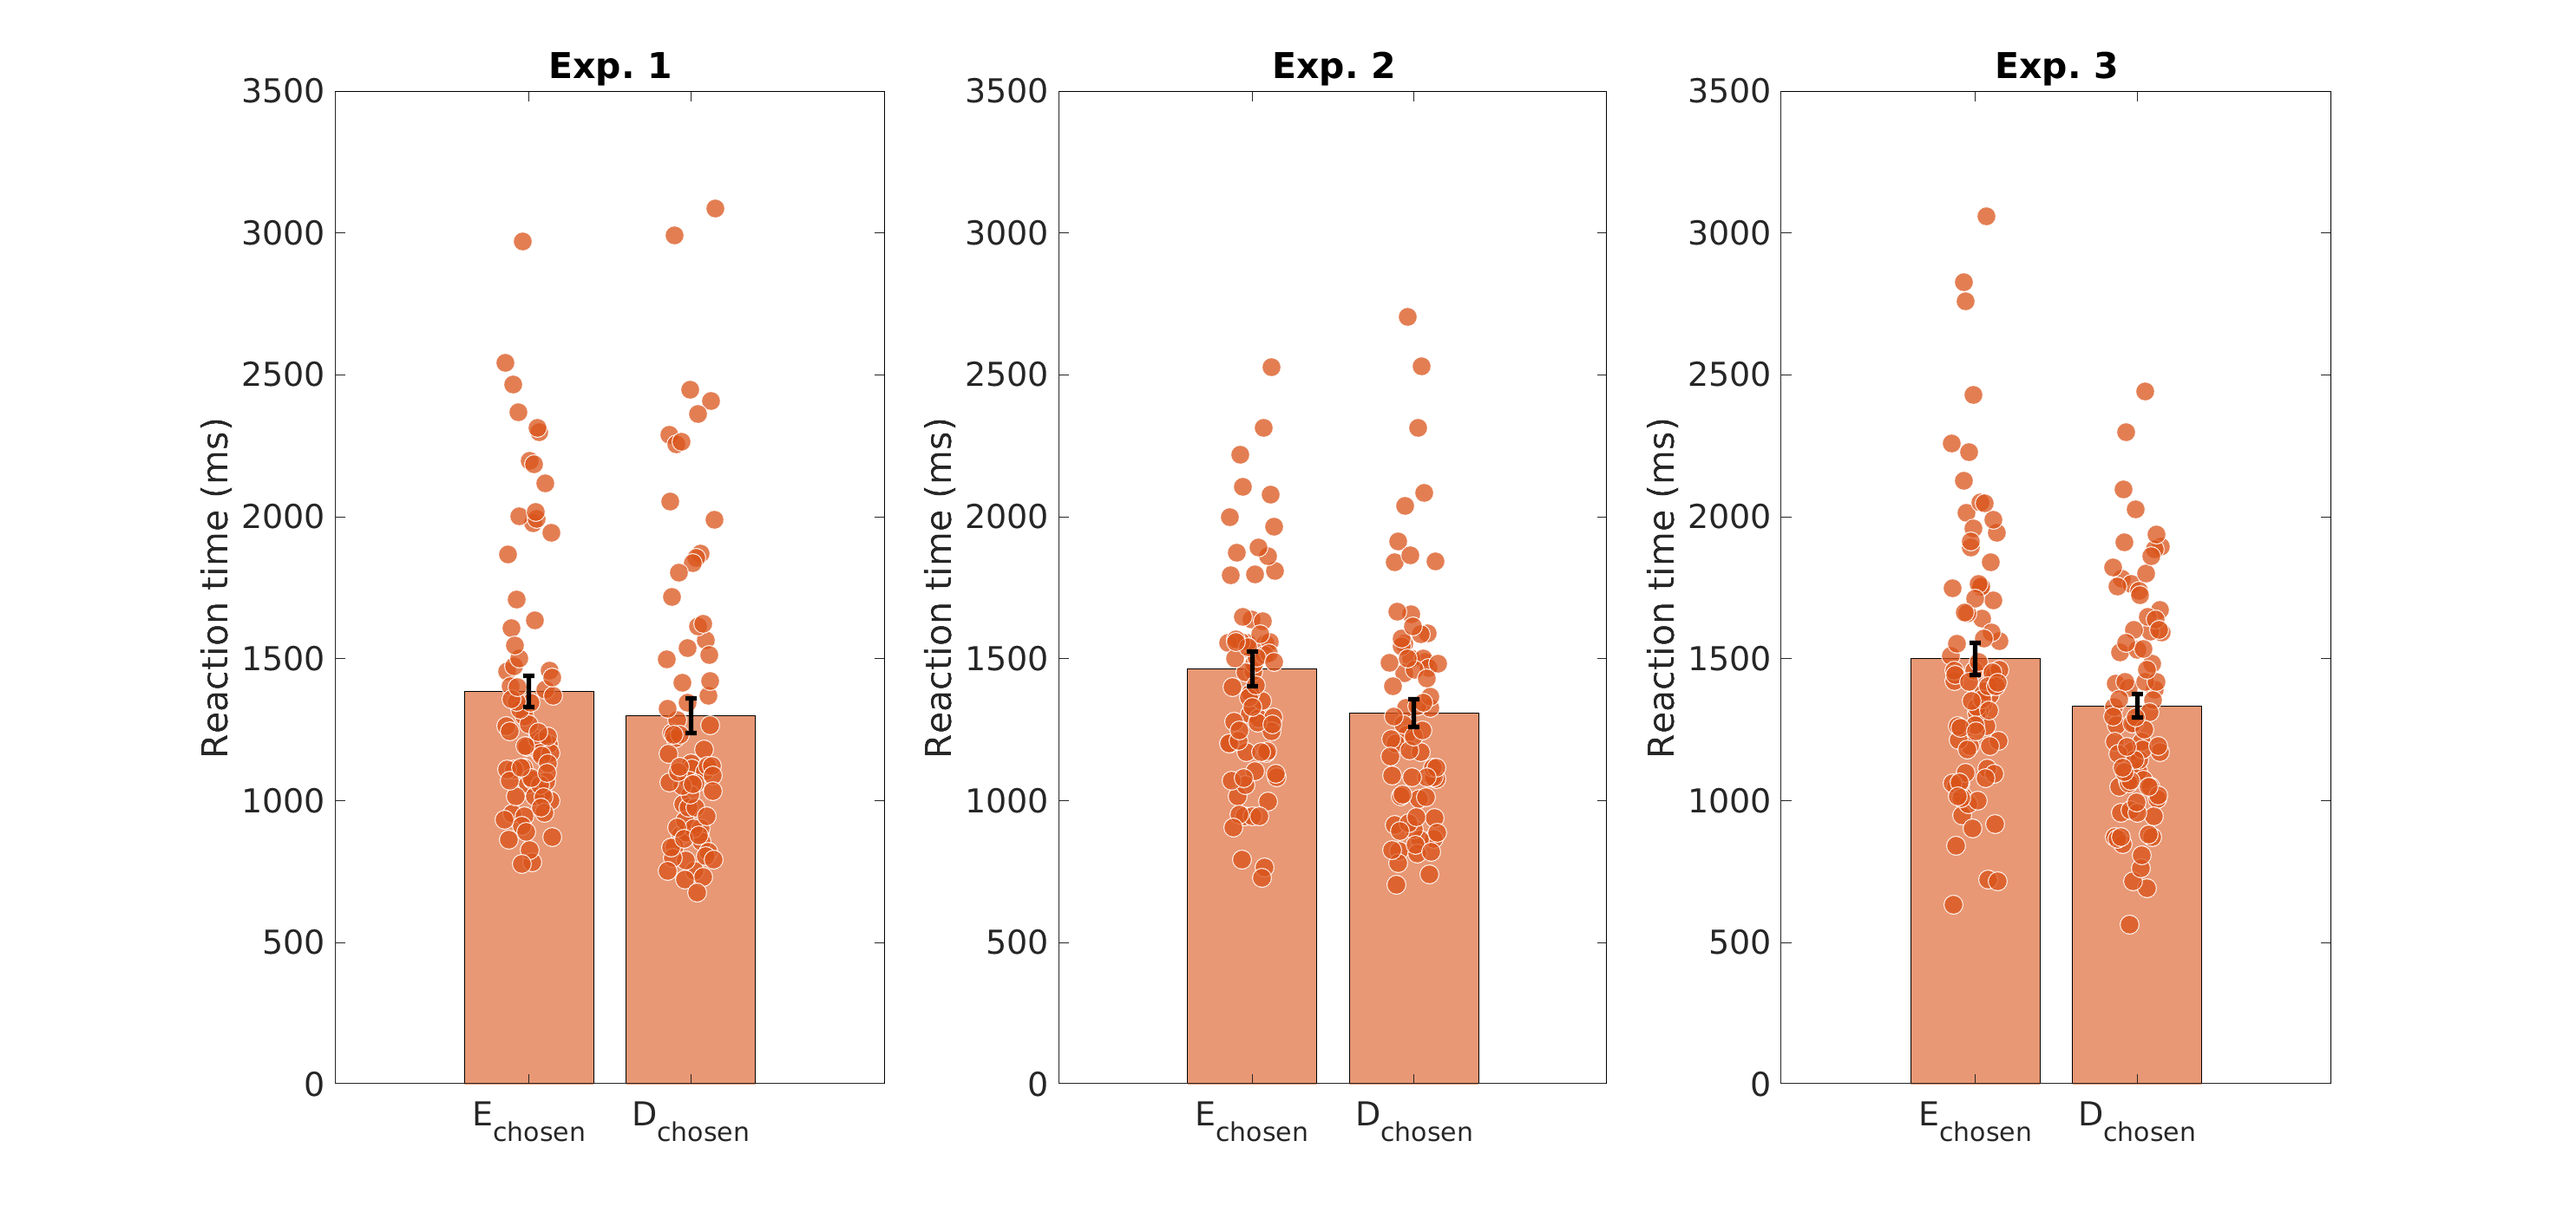
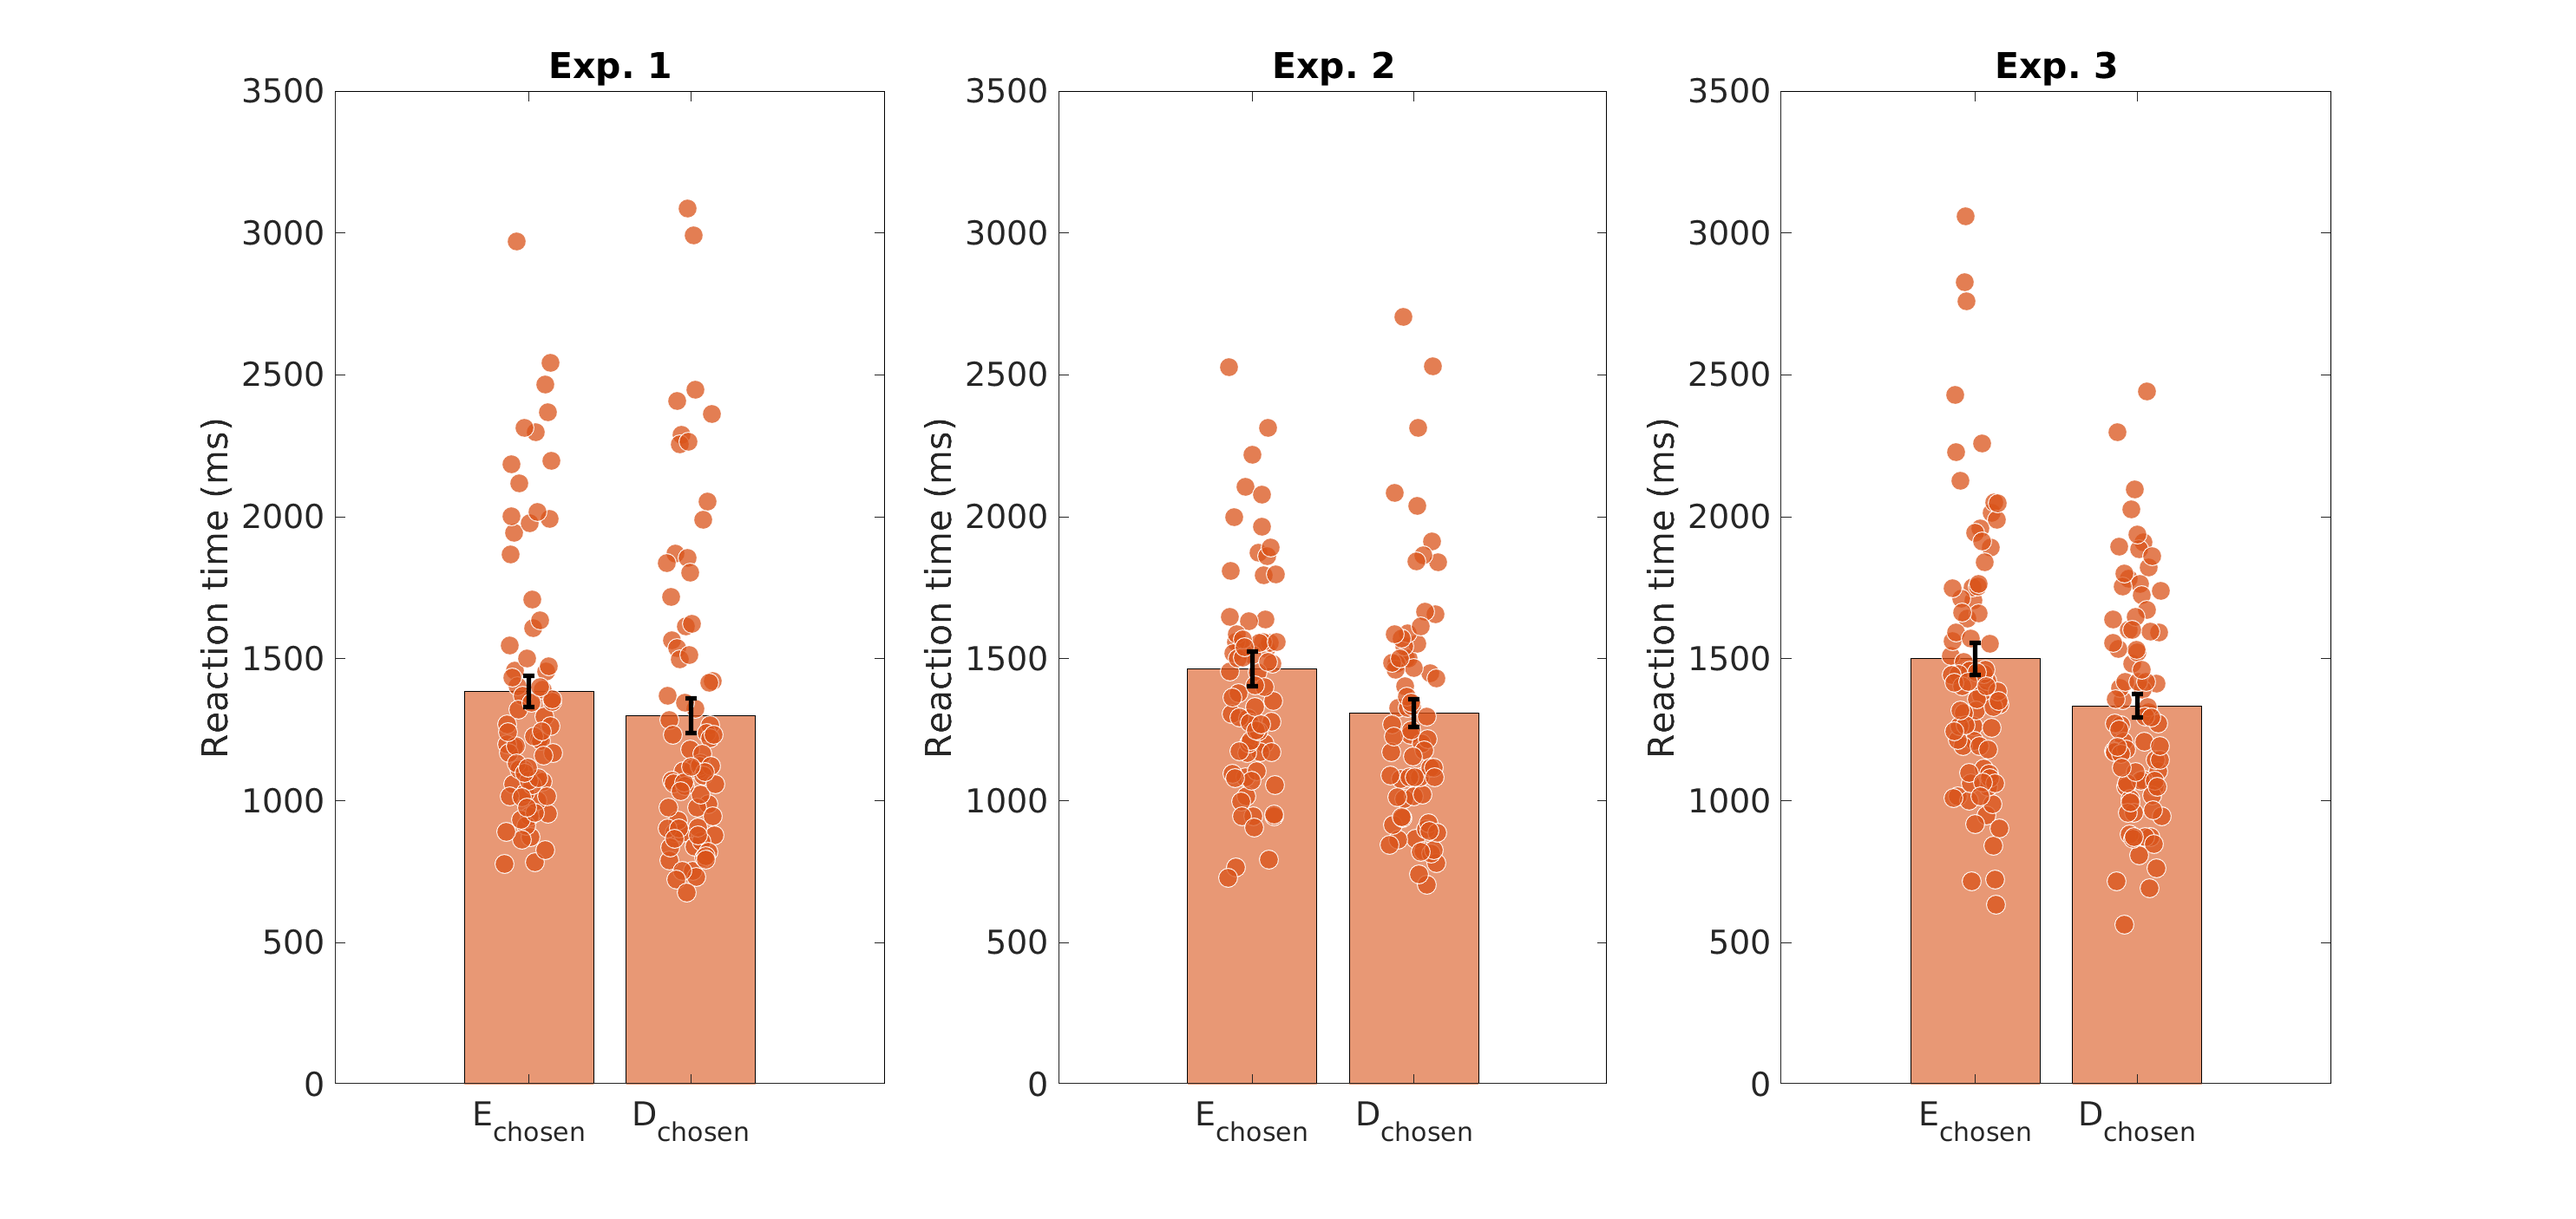
update

diff --git a/fitted_value.m b/fitted_value.m
@@ -7,11 +7,11 @@ init;
 %------------------------------------------------------------------------
 % Plot fig 2.A
 %------------------------------------------------------------------------
-exp_names = {filenames{1:3}};
-plot_fitted_values_desc_vs_exp(d, idx, fit_folder, orange_color, exp_names);
+%exp_names = {filenames{1:3}};
+%plot_fitted_values_desc_vs_exp(d, idx, fit_folder, orange_color, exp_names);
 
-%exp_names = {filenames{4:5}};
-%plot_fitted_values_all(d, idx, fit_folder, orange_color, blue_color, exp_names);
+exp_names = {filenames{4:5}};
+plot_fitted_values_all(d, idx, fit_folder, orange_color, blue_color, exp_names);
 
 
 % --------------------------------------------------------------------
@@ -27,7 +27,7 @@ function plot_fitted_values_desc_vs_exp(d, idx, fit_folder, orange_color, exp_na
 
         subplot(2, 3, i);
         exp_name = char(exp_name);
-        [corr1, cho, out, p1, p2, ev1, ev2, ctch, cont1, cont2, dist, rtime] = ...
+        [corr1{i}, cho, out, p1, p2, ev1, ev2, ctch, cont1, cont2, dist, rtime] = ...
             DataExtraction.extract_sym_vs_lot_post_test(...
             d.(exp_name).data, d.(exp_name).sub_ids, idx, 0);
 
@@ -106,15 +106,54 @@ function plot_fitted_values_desc_vs_exp(d, idx, fit_folder, orange_color, exp_na
         %uistack(p2, 'bottom');
     end
     
-    titles2 = {'Intercept', 'Slope'};
+    titles2 = {'Performance', 'Slope'};
     sub_plot = [4, 3];
     for j = 1:2
         subplot(2, 2, sub_plot(j))
+        
         for k = 1:3
-            rsize(k, :) = reshape(r(k, :, j), [size(r, 2), 1]);
-            mn(k, :) = mean(rsize(k, :));
-            err(k, :) = std(rsize(k, :))./sqrt(size(r, 2));
+            if j == 1
+                rsize{k}  = mean(corr1{k}, 2)';              
+                mn(k, :) = mean(rsize{k});
+                err(k, :) = std(rsize{k})./sqrt(length(rsize{k}));      
+            else
+                rsize{k} = reshape(r(k, :, j), [size(r, 2), 1]);
+                mn(k, :) = mean(rsize{k});
+                err(k, :) = std(rsize{k})./sqrt(length(rsize{k}));            
+            end
         end
+        
+        dd = rsize;
+        
+        x = dd{1};
+        y = dd{2};
+        p = ranksum(x,y);
+        pp(1) = p;
+       
+        x = dd{2};
+        y = dd{3};
+        p = ranksum(x,y);
+        pp(2) = p;
+  
+        x = dd{1};
+        y = dd{3};
+        p = ranksum(x,y);
+        pp(3) = p;
+
+        %pp = pval_adjust(pp, 'bonferroni');
+        for sp = pp 
+            if sp < .001
+                h = '***';
+            elseif sp < .01
+                h='**';
+            elseif sp < .05
+                h ='*';
+            else 
+                h = 'none';
+            end
+            fprintf('h=%s, p=%d \n', h, sp);
+        end
+        fprintf('===================== \n');
         b = bar(mn);
         hold on
 
@@ -123,7 +162,13 @@ function plot_fitted_values_desc_vs_exp(d, idx, fit_folder, orange_color, exp_na
 
         ax1 = gca;
         set(gca, 'XTickLabel', titles);
-        ylabel('Value');
+        if j == 1
+            ylabel('Correct choice rate');
+
+        else
+            ylabel('Value');            
+        end
+
         title(titles2{j});
         e = errorbar(b.XData+b.XOffset, mn(:, 1), err(:, 1), 'LineStyle', 'none',...
             'LineWidth', 2, 'Color', 'k', 'HandleVisibility','off');
@@ -139,18 +184,22 @@ function plot_fitted_values_desc_vs_exp(d, idx, fit_folder, orange_color, exp_na
             hold on
             for k = 1:length(x)
 
-                d = reshape(rsize(k,:), [], 1);
+                d = reshape(rsize{k}, [], 1);
                 nsub = length(d);
 
                 s = scatter(...
-                    x(k).*ones(1, nsub)-Shuffle(linspace(-0.04, 0.04, nsub)),...
-                    d',...
+                    x(k).*ones(1, nsub)-Shuffle(linspace(-0.1, 0.1, nsub)),...
+                    d', 100,...
                     'MarkerFaceAlpha', 0.65, 'MarkerEdgeAlpha', 1,...
                     'MarkerFaceColor', orange_color,...
                     'MarkerEdgeColor', 'w', 'HandleVisibility','off');
             end
         end
         uistack(e, 'top');
+        if j == 1
+            ylim([.45, 1.1]);
+        end
+     
     end
 
     saveas(gcf, 'fig/fit/all/fitted_value_exp_1_2_3.png')
@@ -309,8 +358,8 @@ function plot_fitted_values_all(d, idx, fit_folder, orange_color, blue_color, ex
             %mn(k, :) = mean(rsize);
             %err(k, :) = std(rsize)./sqrt(size(r, 3));
 
-            dd{k, 1} = r(2, k, :, j);
-            dd{k, 2} = r(1, k, :, j);
+            dd{k, 1} = reshape(r(2, k, :, j), [], 1);
+            dd{k, 2} = reshape(r(1, k, :, j), [], 1);
             
             mn(k, 1) = mean(dd{k, 1});
             mn(k, 2) = mean(dd{k, 2});
@@ -319,7 +368,36 @@ function plot_fitted_values_all(d, idx, fit_folder, orange_color, blue_color, ex
             err(k, 2) = std(dd{k, 2})./sqrt(length(dd{k, 2}));
 
         end
+        
+        x = dd{1, 1};
+        y = dd{1, 2};
+        p = signrank(x,y);
+        pp(1) = p;
+       
+        x = dd{2, 1};
+        y = dd{2, 2};
+        p = signrank(x,y);
+        pp(2) = p;
+  
+        x = dd{3, 1};
+        y = dd{3, 2};
+        p = signrank(x,y);
+        pp(3) = p;
 
+        %pp = pval_adjust(pp, 'bonferroni');
+        for sp = pp 
+            if sp < .001
+                h = '***';
+            elseif sp < .01
+                h='**';
+            elseif sp < .05
+                h ='*';
+            else 
+                h = 'none';
+            end
+            fprintf('h=%s, p=%d \n', h, sp);
+        end
+        fprintf('===================== \n');
         b = bar(mn);% 'EdgeColor', 'w', 'FaceAlpha', 0.6, 'FaceColor', 'flat');
         hold on
 

diff --git a/ind_curves.m b/ind_curves.m
@@ -27,7 +27,7 @@ for f = {filenames{:}, filenames{end}}
     % Compute for each symbol p of chosing depending on described cue value
     % ------------------------------------------------------------------------
     pcue = [0, 0.1, 0.2, 0.3, 0.4, 0.5, 0.6, 0.7, 0.8, 0.9, 1];
-    psym = [0.1, 0.9];
+    psym = [0.1, 0.2, 0.3, 0.4, 0.6, 0.7, 0.8, 0.9];
     chose_symbol = zeros(size(cho, 1), length(pcue), length(psym));
     for i = 1:size(cho, 1)
         for j = 1:length(pcue)
@@ -71,12 +71,12 @@ for f = {filenames{:}, filenames{end}}
     
     
     
-    pwin = [0.1, 0.9];
-    alpha = [0.55, 0.95];
+    pwin = [0.1, 0.2, 0.3, 0.4, 0.6, 0.7, 0.8, 0.9];
+    alpha = [0.55, linspace(.55, .65, 6), 0.95];
     lin1 = plot(...
             linspace(0, 1, 12), ones(12)*0.5,...
             'LineStyle', ':', 'Color', [0, 0, 0], 'HandleVisibility', 'off');
-    for i = 1:length(psym)
+    for i = 1:length(pwin)
               
         hold on
 %         lin2 = plot(...
@@ -86,27 +86,35 @@ for f = {filenames{:}, filenames{end}}
         
         hold on
         % [0.4660    0.6740    0.1880]
+        if ismember(i, [1, 8])
         lin3 = plot(...
             pcue,  pp(i, :),... %'bs', pcue, pp(i, :),  'b-', 'MarkerEdgeColor',...
-            'Color', orange_color, 'LineWidth', 3.5...
+            'Color', orange_color, 'LineWidth', 4 ...
         );
+        else
+            lin3 = plot(...
+            pcue,  pp(i, :),... %'bs', pcue, pp(i, :),  'b-', 'MarkerEdgeColor',...
+            'Color', orange_color, 'LineWidth', 4 ...
+        );
+        end
         
         lin3.Color(4) = alpha(i);
         hold on
-        sc1 = scatter(pcue, prop(i, :), 180,...
-            'MarkerEdgeColor', 'w',...
-            'MarkerFaceColor', orange_color, 'MarkerFaceAlpha', alpha(i));
+        if ismember(i, [1, 8])
+            sc1 = scatter(pcue, prop(i, :), 180,...
+                'MarkerEdgeColor', 'w',...
+                'MarkerFaceColor', orange_color, 'MarkerFaceAlpha', alpha(i));
+        end
         %s.MarkerFaceAlpha = alpha(i);
         
         hold on
         ind_point = interp1(lin3.YData, lin3.XData, 0.5);
-        if i == 1
+        
+        if ismember(i, [1, 8])
         sc2 = scatter(ind_point, 0.5, 200, 'MarkerFaceColor', 'k',...
             'MarkerEdgeColor', 'w');
-        else
-            sc2 = scatter(ind_point, 0.5, 200, 'MarkerFaceColor', 'k',...
-            'MarkerEdgeColor', 'w', 'HandleVisibility', 'off');
         end
+        
         %sc2.MarkerFaceAlpha = alpha(i);
         
         if mod(i, 2) ~= 0 || ismember(i, [1, 2])
@@ -125,8 +133,9 @@ for f = {filenames{:}, filenames{end}}
         
         ylim([-0.08, 1.08]);
         xlim([-0.08, 1.08]);
-        
-        text(ind_point + (0.05) * (1 + (-4 * (i == 1))) , .55, sprintf('%.2f', ind_point), 'Color', 'k', 'FontSize', 25);
+        if ismember(i, [1, 8])
+            text(ind_point + (0.05) * (1 + (-4 * (i == 1))) , .55, sprintf('%.2f', ind_point), 'Color', 'k', 'FontSize', 25);
+        end
         box off
         set(gca, 'Fontsize', 23);
         

diff --git a/reaction_times.m b/reaction_times.m
@@ -7,9 +7,9 @@ init;
 %------------------------------------------------------------------------
 % Plot fig 2.A
 %------------------------------------------------------------------------
-%f = {filenames{[1, 2, 3]}};
-%plot_reaction_times_1_2_3(d, idx, orange_color, blue_color, f)
-%saveas(gcf, 'fig/exp/all/reaction_times_1_2_3.png');
+f = {filenames{[1, 2, 3]}};
+plot_reaction_times_1_2_3(d, idx, orange_color, blue_color, f)
+saveas(gcf, 'fig/exp/all/reaction_times_1_2_3.png');
 
 f = {filenames{[4, 5]}};
 plot_reaction_times_4_5_6(d, idx, orange_color, blue_color, f)
@@ -60,32 +60,32 @@ function plot_reaction_times_4_5_6(d, idx, orange_color, blue_color, exp_names)
         
         x = dd{1};
         y = dd{2};
-        [h,p] = ttest(x,y,'Alpha',0.05);
+        p = signrank(x,y);
         pp(1) = p;
        
         x = dd{2};
         y = dd{3};
-        [h,p] = ttest(x,y,'Alpha',0.05);
+        p = signrank(x,y);
         pp(2) = p;
-
         
         x = dd{1};
         y = dd{3};
-        [h,p] = ttest(x,y,'Alpha',0.05);
+        p = signrank(x,y);
         pp(3) = p;
 
         pp = pval_adjust(pp, 'bonferroni');
-        for sp = pp 
-            if sp < .001
+         
+        for p_corr = pp 
+            if p_corr < .001
                 h = '***';
-            elseif sp < .01
+            elseif p_corr < .01
                 h='**';
-            elseif sp < .05
+            elseif p_corr < .05
                 h ='*';
             else 
                 h = 'none';
             end
-            fprintf('h=%s, p=%d \n', h, p);
+            fprintf('h=%s, p=%d \n', h, p_corr);
         end
         fprintf('===================== \n');
 
@@ -191,7 +191,7 @@ function plot_reaction_times_1_2_3(d, idx, orange_color, blue_color, exp_names)
         
         x = dd{1};
         y = dd{2};
-        [h,p] = ttest(x,y,'Alpha',0.05);
+        p = signrank(x,y);
      
         if p < .001
             h = '***';
